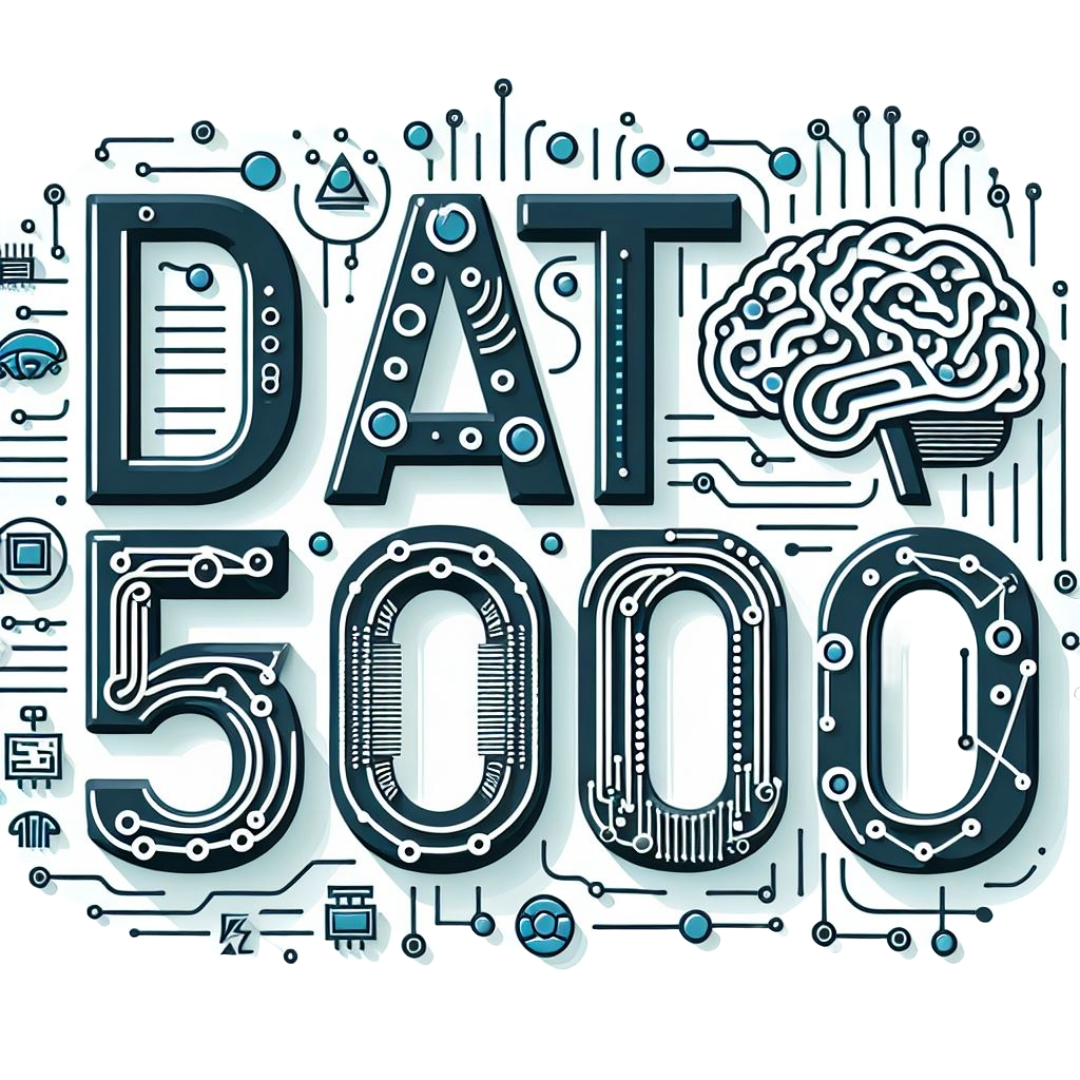
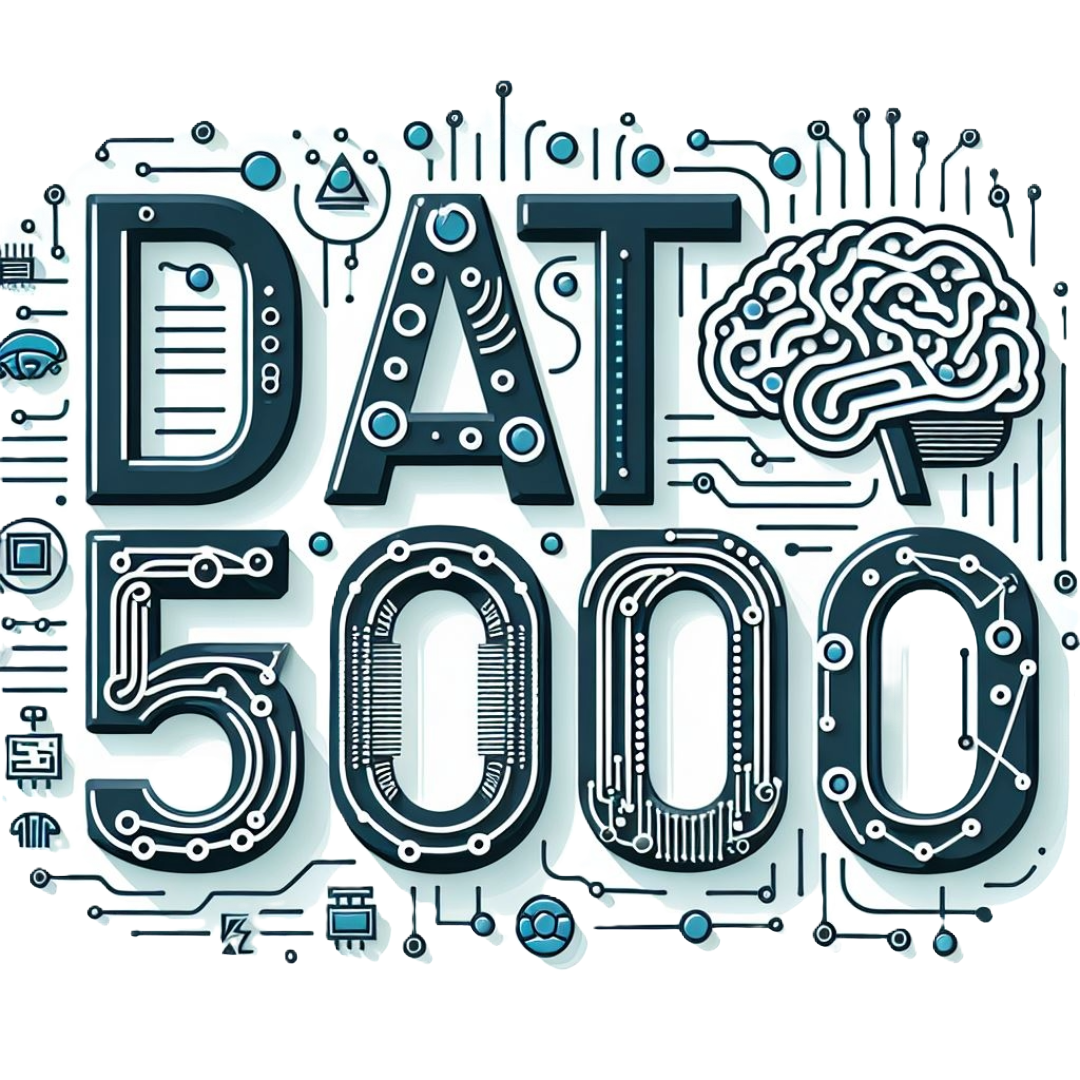
Change in image

diff --git a/index.html b/index.html
@@ -5,7 +5,7 @@ layout: default
 <div class="header-bar">
   <h1>DATA5000</h1>
   <h2>Artificial Intelligence Programming for Business Analytics</h2>
-  <img class="course-page" src="https://erickger.github.io/DATA5000/img/DATA5000.png">
+  <img class="course-page" src="https://erickger.github.io/DATA5000/img/DATA5000_220x220.png">
   <br/>
   <br/>
 </div>
